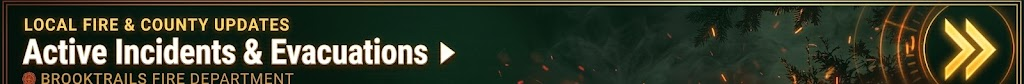
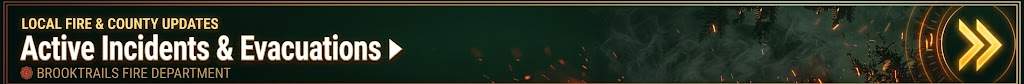
Complete resource artwork and stagger button reflections

diff --git a/styles.css b/styles.css
@@ -30,14 +30,13 @@ svg,img{display:block;max-width:100%}button{cursor:pointer}button[hidden],[hidde
 .updates-dropdown[open]>summary{background:#46150f;box-shadow:inset 0 -2px 0 var(--gold)}
 .updates-dropdown>summary.updates-image-trigger{position:relative;isolation:isolate;overflow:hidden;display:flex;flex-direction:column;justify-content:center;padding:0;background:var(--forest-950);border:0;min-height:48px;transform-origin:center top;box-shadow:inset 0 1px 0 #fff1ba99,inset 0 -3px 0 #713e1b,0 3px 0 #371b0f;transition:transform .18s ease,filter .18s ease,box-shadow .18s ease}
 .updates-image-trigger::before{content:"";position:absolute;inset:0;z-index:1;pointer-events:none;border:1px solid #ffd287b3;box-shadow:inset 0 2px 2px #fff2c34d,inset 0 -3px 3px #0009}
-.updates-image-trigger::after,.ready-image::after,.resource-image-summary::after{content:"";position:absolute;inset:0;z-index:2;pointer-events:none;background:linear-gradient(110deg,transparent 25%,#ffc96b0a 36%,#ffe8b855 45%,#fff9dfb3 50%,#ffe8b84d 55%,transparent 67%);transform:translateX(-120%);animation:updates-glimmer 4.8s ease-in-out infinite}
+.updates-image-trigger::after,.ready-image::after,.resource-image-summary::after{content:"";position:absolute;inset:0;z-index:2;pointer-events:none;background:linear-gradient(110deg,transparent 25%,#ffc96b0a 36%,#ffe8b855 45%,#fff9dfb3 50%,#ffe8b84d 55%,transparent 67%);transform:translateX(-120%);animation:updates-glimmer 4.8s ease-in-out infinite;animation-delay:var(--shimmer-offset,0s)}
 @keyframes updates-glimmer{0%,12%{transform:translateX(-120%)}42%,100%{transform:translateX(120%)}}
 .updates-dropdown>summary.updates-image-trigger:focus-visible,.ready-tabs button.ready-image:focus-visible,.resource-group>summary.resource-image-summary:focus-visible{transform:scale(1.012,1.06);filter:brightness(1.12);box-shadow:inset 0 1px 0 #fff6d4,0 4px 0 #713e1b,0 6px 16px #ffc96b55;outline:2px solid var(--gold);outline-offset:3px}
 @media(hover:hover) and (pointer:fine){.updates-dropdown>summary.updates-image-trigger:hover,.ready-tabs button.ready-image:hover,.resource-group>summary.resource-image-summary:hover{transform:scale(1.012,1.06);filter:brightness(1.12);box-shadow:inset 0 1px 0 #fff6d4,0 4px 0 #713e1b,0 6px 16px #ffc96b55}}
 .updates-dropdown>summary.updates-image-trigger:active,.ready-tabs button.ready-image:active,.resource-group>summary.resource-image-summary:active{transform:scale(.995,.98);filter:brightness(1.03);box-shadow:inset 0 2px 5px #000b,0 1px 0 #713e1b}
 @media(prefers-reduced-motion:reduce){.updates-dropdown>summary.updates-image-trigger:hover,.updates-dropdown>summary.updates-image-trigger:focus-visible,.updates-dropdown>summary.updates-image-trigger:active,.ready-tabs button.ready-image:hover,.ready-tabs button.ready-image:focus-visible,.ready-tabs button.ready-image:active,.resource-group>summary.resource-image-summary:hover,.resource-group>summary.resource-image-summary:focus-visible,.resource-group>summary.resource-image-summary:active{transform:none}.updates-image-trigger::after,.ready-image::after,.resource-image-summary::after{display:none}}
 .updates-image-trigger img{width:100%;height:auto;object-fit:contain}
-.updates-image-trigger .updates-department{position:relative;z-index:1;flex:none;width:max-content;min-width:32%;max-width:100%;margin-top:-1.3%;padding:0 20px 2px 2%;background:linear-gradient(90deg,#09251b 90%,transparent);color:#dbb673;font-size:clamp(9px,.8vw,11px);font-weight:650;line-height:1.25;letter-spacing:.025em;white-space:nowrap}
 .updates-image-trigger .updates-art--expanded,.updates-dropdown[open] .updates-art--collapsed{display:none}
 .updates-dropdown[open] .updates-art--expanded{display:block}
 .updates-panel{position:absolute;left:0;top:calc(100% + 6px);z-index:120;width:min(31rem,calc(100vw - 1.5rem));max-height:calc(100dvh - 5rem);overflow-y:auto;overscroll-behavior:contain;padding:8px;background:#071610;border:1px solid var(--gold);box-shadow:0 12px 30px #000a}
@@ -74,12 +73,18 @@ svg,img{display:block;max-width:100%}button{cursor:pointer}button[hidden],[hidde
 .primary-nav a:hover,.primary-nav a[aria-current]{color:var(--gold);background:linear-gradient(90deg,#d43a2c33,transparent)}
 .primary-nav .sibling-nav{margin-left:auto;color:var(--gold)}
 .button{position:relative;isolation:isolate;overflow:hidden;min-height:44px;display:inline-flex;align-items:center;justify-content:center;gap:6px;padding:12px 22px;font-size:.8rem;font-weight:900;letter-spacing:.06em;line-height:1.3;text-align:center;text-decoration:none;text-transform:uppercase;color:#171007;background:var(--metal);border:1px solid #fff0c9;box-shadow:inset 0 3px 0 #fff4dcb3,inset 0 -3px 0 #6c291b99;clip-path:polygon(4% 0,100% 0,96% 100%,0 100%);transition:filter .2s,transform .2s}
-.button::before{content:"";position:absolute;inset:-80% -30%;z-index:-1;background:linear-gradient(105deg,transparent 35%,#fff 48%,#fff7 51%,transparent 64%);transform:translateX(-110%);animation:metal-sweep 4.8s ease-in-out infinite;pointer-events:none}
+.button::before{content:"";position:absolute;inset:-80% -30%;z-index:-1;background:linear-gradient(105deg,transparent 35%,#fff 48%,#fff7 51%,transparent 64%);transform:translateX(-110%);animation:metal-sweep 4.8s ease-in-out infinite;animation-delay:var(--shimmer-offset,0s);pointer-events:none}
 .button:hover{filter:brightness(1.08);transform:translateY(-2px)}.button:focus-visible{clip-path:none}
 .button--emergency{background:#a9251c;color:white;border-color:var(--flame);box-shadow:none}.button--emergency::before{display:none}.button--emergency:hover{background:#bf2e20}
 .button-row{display:flex;align-items:center;flex-wrap:wrap;gap:12px}
 .recruit-actions,.burn-actions{flex-direction:column;align-items:flex-start;gap:10px}
 .recruit-choice,.contact-choice{padding-left:18px;color:var(--gold);font-size:.68rem;font-weight:900;letter-spacing:.18em;line-height:1;text-transform:uppercase}
+.hero .button{--shimmer-offset:-.4s}
+.recruit-actions a:nth-of-type(1){--shimmer-offset:-1.1s}.recruit-actions a:nth-of-type(2){--shimmer-offset:-2.7s}
+.burn-check-grid article:first-child .button{--shimmer-offset:-.2s}.burn-actions a:nth-of-type(1){--shimmer-offset:-1.8s}.burn-actions a:nth-of-type(2){--shimmer-offset:-3.4s}
+.updates-image-trigger{--shimmer-offset:-.3s}
+.ready-tabs button:nth-child(1){--shimmer-offset:-.8s}.ready-tabs button:nth-child(2){--shimmer-offset:-2.1s}.ready-tabs button:nth-child(3){--shimmer-offset:-3.6s}
+.resource-group:nth-child(1) .resource-image-summary{--shimmer-offset:-.5s}.resource-group:nth-child(2) .resource-image-summary{--shimmer-offset:-2s}.resource-group:nth-child(3) .resource-image-summary{--shimmer-offset:-3.5s}
 .eyebrow,.card-kicker{margin-bottom:8px;color:var(--gold);font-size:.7rem;font-weight:900;letter-spacing:.15em;line-height:1.3;text-transform:uppercase}
 .eyebrow::before{content:"";width:1.8rem;height:1px;display:inline-block;margin-right:10px;vertical-align:middle;background:currentColor}
 .word-link{display:inline-block;padding:5px 0;color:var(--cream);font-weight:800;text-decoration-color:var(--flame);text-decoration-thickness:2px;text-underline-offset:5px}
@@ -145,7 +150,7 @@ a.metal-edge:hover,button.metal-edge:hover,details.metal-edge:has(summary:hover)
 .resource-group>summary::-webkit-details-marker{display:none}.resource-group>summary::after{content:"+";position:absolute;right:12px;top:10px;color:var(--gold)}.resource-group[open]>summary::after{content:"−"}
 .resource-group summary>span{display:block;font-weight:400;color:var(--smoke);font-size:.8rem}
 .resource-content{padding:0 10px 10px}.resource-content p{color:var(--smoke);font-size:.9rem;margin:8px 0}
-.resource-group>summary.resource-image-summary{isolation:isolate;display:block;width:100%;min-width:0;max-width:100%;aspect-ratio:1024/127;padding:0;overflow:hidden;line-height:0;background:var(--forest-950);transition:transform .18s ease,filter .18s ease,box-shadow .18s ease}
+.resource-group>summary.resource-image-summary{isolation:isolate;display:block;width:100%;min-width:0;max-width:100%;aspect-ratio:1024/135;padding:0;overflow:hidden;line-height:0;background:var(--forest-950);transition:transform .18s ease,filter .18s ease,box-shadow .18s ease}
 .resource-image-group{min-width:0}.resource-image-summary img{display:block;width:100%;height:100%;object-fit:contain}
 .resource-group.resource-image-group>summary::after{content:"";inset:0}
 .resource-image-group[open]>summary::before{content:"−";position:absolute;z-index:1;right:2.1%;top:50%;transform:translateY(-50%);width:5.5%;aspect-ratio:1;display:grid;place-items:center;background:#10231a;border:1px solid #d6a86b88;border-radius:50%;color:var(--gold);font-size:clamp(10px,2vw,24px);line-height:1;pointer-events:none}

diff --git a/index.html b/index.html
@@ -11,8 +11,8 @@
   <meta property="og:description" content="Emergency information, volunteer opportunities, services, and wildfire preparedness for Brooktrails, Spring Creek, and Sylvandale.">
   <meta property="og:type" content="website">
   <title>Brooktrails Fire Department</title>
-  <link rel="stylesheet" href="styles.css?v=20261020-3">
-  <script src="script.js?v=20261020-3" defer></script>
+  <link rel="stylesheet" href="styles.css?v=20261020-4">
+  <script src="script.js?v=20261020-4" defer></script>
 <link rel="stylesheet" href="assets/cwu-colophon.css" data-cwu-colophon="true">
 </head>
 <body>
@@ -23,7 +23,7 @@
       <div class="shell command-bar__grid">
         <a class="command-link command-link--911" href="tel:911"><span>Emergency</span><strong>Call 911</strong></a>
         <details class="updates-dropdown" data-updates-dropdown>
-          <summary class="command-link command-link--incidents updates-image-trigger"><span class="sr-only">Local Fire &amp; County Updates: Active Incidents &amp; Evacuations</span><img class="updates-art--collapsed" src="assets/updates-collapsed.jpg" alt="" width="1024" height="84"><img class="updates-art--expanded" src="assets/updates-expanded.jpg" alt="" width="1024" height="84"><span class="updates-department" aria-hidden="true">Brooktrails Fire Department</span></summary>
+          <summary class="command-link command-link--incidents updates-image-trigger"><span class="sr-only">Local Fire &amp; County Updates: Active Incidents &amp; Evacuations</span><img class="updates-art--collapsed" src="assets/updates-collapsed.jpg" alt="" width="1024" height="84"><img class="updates-art--expanded" src="assets/updates-expanded.jpg" alt="" width="1024" height="84"></summary>
           <nav class="updates-panel" aria-label="Fire and evacuation update sources" tabindex="-1">
             <p class="updates-group">Agency Social Updates</p>
             <a class="update-source" href="https://www.facebook.com/MendocinoSheriff" target="_blank" rel="noopener"><span class="source-icon source-icon--facebook" aria-hidden="true">f</span><span class="source-copy"><strong>Mendocino Sheriff</strong><small>Facebook · County Sheriff's Office</small></span><span class="source-arrow" aria-hidden="true">↗</span></a>
@@ -193,7 +193,10 @@
       <div class="shell resources-layout">
         <div><p class="eyebrow">Forms &amp; resources</p><h2 id="resources-title">The right door. No runaround.</h2><p class="muted">Fire questions stay with Fire. District business goes next door.</p></div>
         <div class="resource-groups">
-          <details class="resource-group metal-edge" id="volunteer-process"><summary>Volunteer applications <span>Ask about the process</span></summary><div class="resource-content"><p>Contact the department for the application and approved return method. Online application submission is not enabled on this preview.</p><a class="resource-row metal-edge" href="mailto:fireprev@btcsd.org?subject=Volunteer%20application%20request"><span><strong>Request a volunteer application</strong><small>Email the Fire Department</small></span><b aria-hidden="true">→</b></a></div></details>
+          <details class="resource-group resource-image-group" id="volunteer-process">
+            <summary class="resource-image-summary"><img src="assets/volunteer-application-resources.jpg" width="1024" height="135" alt="Volunteer applications: ask about the process" decoding="async"></summary>
+            <div class="resource-content"><p>Contact the department for the application and approved return method. Online application submission is not enabled on this preview.</p><a class="resource-row metal-edge" href="mailto:fireprev@btcsd.org?subject=Volunteer%20application%20request"><span><strong>Request a volunteer application</strong><small>Email the Fire Department</small></span><b aria-hidden="true">→</b></a></div>
+          </details>
           <details class="resource-group resource-image-group" id="permit-resources">
             <summary class="resource-image-summary"><img src="assets/burn-permit-resources.jpg" width="1024" height="127" alt="Burn permits and conditions: official services" decoding="async"></summary>
             <div class="resource-content">

diff --git a/evidence/FIRE-RESOURCE-IMAGES-20261020.md b/evidence/FIRE-RESOURCE-IMAGES-20261020.md
@@ -1,11 +1,13 @@
 # Resource header images, October 20, 2026
 
-Owner requested image replacements for volunteer applications, burn permits, and Township forms. BurnPermits1.jpg (1024x127) and TownshipForms.jpg (1024x126) are verified matching banners and copied unchanged to assets/burn-permit-resources.jpg and assets/township-form-resources.jpg. Both disclosure headers use full-image contain fitting in a common 1024:127 frame, preserving every link and disclosure body. Shared button glimmer/hover/focus/press behavior, a live open-state minus badge, native keyboard controls, and no-JS operation remain available.
+Owner requested image replacements for volunteer applications, burn permits, and Township forms. Confirmed VolunteerApplications.jpg (1024x135), BurnPermits1.jpg (1024x127) and TownshipForms.jpg (1024x126) are copied unchanged to their corresponding resource assets. All three disclosure headers use full-image contain fitting in a common1024:135 frame, preserving every link and disclosure body. Shared button glimmer/hover/focus/press behavior, a live open-state minus badge, native keyboard controls, and no-JS operation remain available.
 
-The supplied VolunteerApplication.jpg and replacement VolunteerApplication1.jpg both displayed the unrelated “Six Agents, One Mystery” UAP thumbnail (2752x1536). The original name was subsequently renamed/moved by the owner. The unchanged existing volunteer header remains pending the correct banner. No unrelated thumbnail is referenced or included in this release.
+The initially supplied VolunteerApplication.jpg and VolunteerApplication1.jpg both displayed an unrelated UAP thumbnail (2752x1536). Those paths later became unavailable. The owner resolved the intake issue with VolunteerApplications.jpg, visually confirmed as the matching Fire banner. No unrelated thumbnail is referenced or included. The first two banners were staged in ac7c0611275f0e7c5dfb3979aaba5ab0e836cc0f; the subsequent complete release supersedes it.
+
+Owner also supplied corrected DropDownUp1.jpg and DropDownDown1.jpg (both1024x84). These replace the original updates state JPEGs without alteration; the clipped-caption HTML overlay is removed. Full native artwork is contained in both states. Nearby metallic/glimmer cycles are staggered using CSS delays. The three burn buttons use -.2/-1.8/-3.4seconds, giving distinct reflection positions at the same instant. Preparedness images, resource headers and volunteer contacts also have independent offsets. The cycle remains4.8seconds and reduced motion remains static.
 
 ## Validation
 
-Local full interaction suite passes at 320/390/768/1080/1440px plus reduced motion and no-JS. Targeted 320/390/1440 checks verify equal header widths/heights, complete loaded images, contain fitting, minimum44px targets and keyboard Enter opening both disclosures. Closed/open phone and desktop screenshots inspected. Resource header sizes: 296x44 at320, 366x45.39 at390, 669.83x83.06 at1440. Existing headers were about70px; native aspect ratios determine the new size without filler. Grid tracks explicitly allow shrinking so the aspect ratio cannot force phone overflow.
+Local full interaction suite passes at320/390/768/1080/1440px plus reduced motion and no-JS. It verifies equal frames for all three headers, complete loaded images, contain fitting, minimum44px targets, disclosure links, corrected updates-image containment, and three different burn-button reflection positions at the same sampled instant. Closed/open phone and desktop screenshots inspected. The frame is44px high at320 and follows the1024:135 ratio at larger widths; no filler is added. Grid tracks explicitly allow shrinking so the aspect ratio cannot force phone overflow.
 
-All53 link/fragment checks, injected forbidden-link rejection, colophon and whitespace checks pass. Published source/build/live results belong to coordination PROJECT.md and COM-469. Cache20261020-3. Rollback before this change:8d0346a590b01aa9912868e6cd6ec4ecab1c6a66. Fire preview only; Township implementation unchanged.
+All53 link/fragment checks, injected forbidden-link rejection, colophon and whitespace checks pass. Published source/build/live results belong to coordination PROJECT.md and COM-469. Cache20261020-4. Immediate rollback:ac7c0611275f0e7c5dfb3979aaba5ab0e836cc0f; rollback before all resource replacements:8d0346a590b01aa9912868e6cd6ec4ecab1c6a66. Fire preview only; Township implementation unchanged.

diff --git a/VISUAL-SYSTEM.md b/VISUAL-SYSTEM.md
@@ -1,6 +1,8 @@
 # Brooktrails Fire visual system
 
-October 20 resource headers: BurnPermits1.jpg and TownshipForms.jpg replace their resource disclosure summaries. One 1024:127 contain-fit role aligns complete artwork with no added outside frame and a minimum 44px target. Shared glimmer, hover/focus lift, press feedback and reduced-motion behavior match the other image buttons. An inset minus covers the source plus when open; native details retains links and no-JS keyboard operation. Volunteer remains its existing header because both supplied VolunteerApplication filenames contained an unrelated UAP thumbnail; no thumbnail is shipped. Cache20261020-3.
+October 20 completed resource headers: VolunteerApplications.jpg, BurnPermits1.jpg and TownshipForms.jpg replace all three resource disclosure summaries. One 1024:135 contain-fit role aligns complete artwork with no added outside frame and a minimum44px target. Shared glimmer, hover/focus lift, press feedback and reduced motion match the other image buttons. An inset minus covers the source plus when open; native details retains links and no-JS keyboard operation. The corrected volunteer source resolves the initial unrelated-thumbnail intake issue. Cache20261020-4 supersedes the initial two-image release20261020-3.
+
+October 20 corrected dropdown artwork and staggered reflections: DropDownUp1.jpg/DropDownDown1.jpg replace the prior state images, preserving the complete original department caption. The temporary HTML caption overlay is removed. CSS negative delays offset nearby shimmer cycles without JavaScript: burn actions -.2/-1.8/-3.4s, volunteer contacts -1.1/-2.7s, preparedness images -.8/-2.1/-3.6s, resource headers -.5/-2/-3.5s, and incidents trigger -.3s. Each remains on a4.8s cycle; reduced motion disables all animated sweeps. Cache20261020-4.
 
 October 20 AQMD contact actions: the burn-line phone and AQMD website links now reuse the volunteer contacts' copper metallic `.button` material, moving reflection, bevel, hover and focus. Both stack with the same compact 10px gap and OR marker. Existing telephone and external website destinations are preserved. Cache20261020-2.
 
